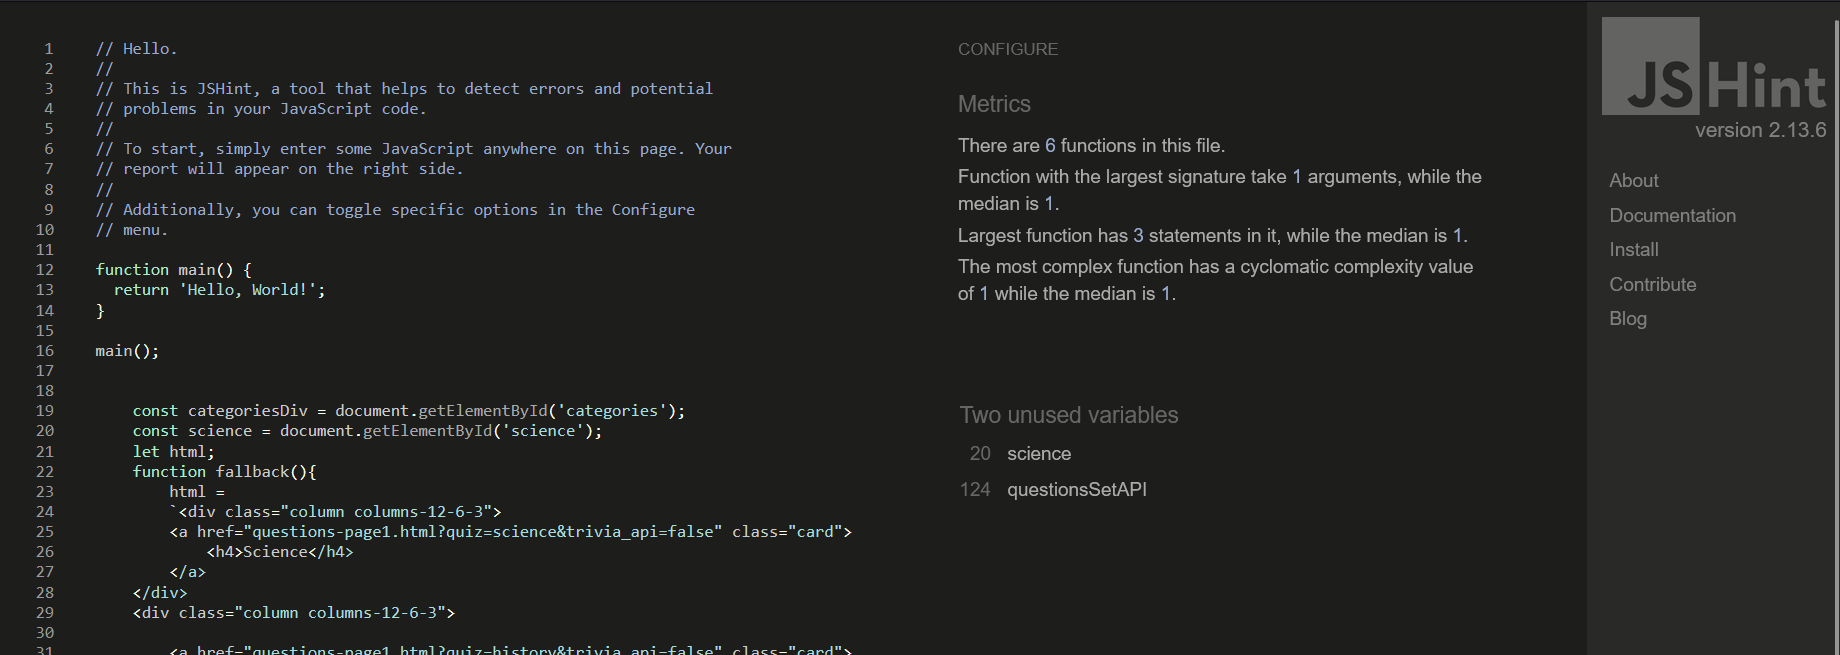
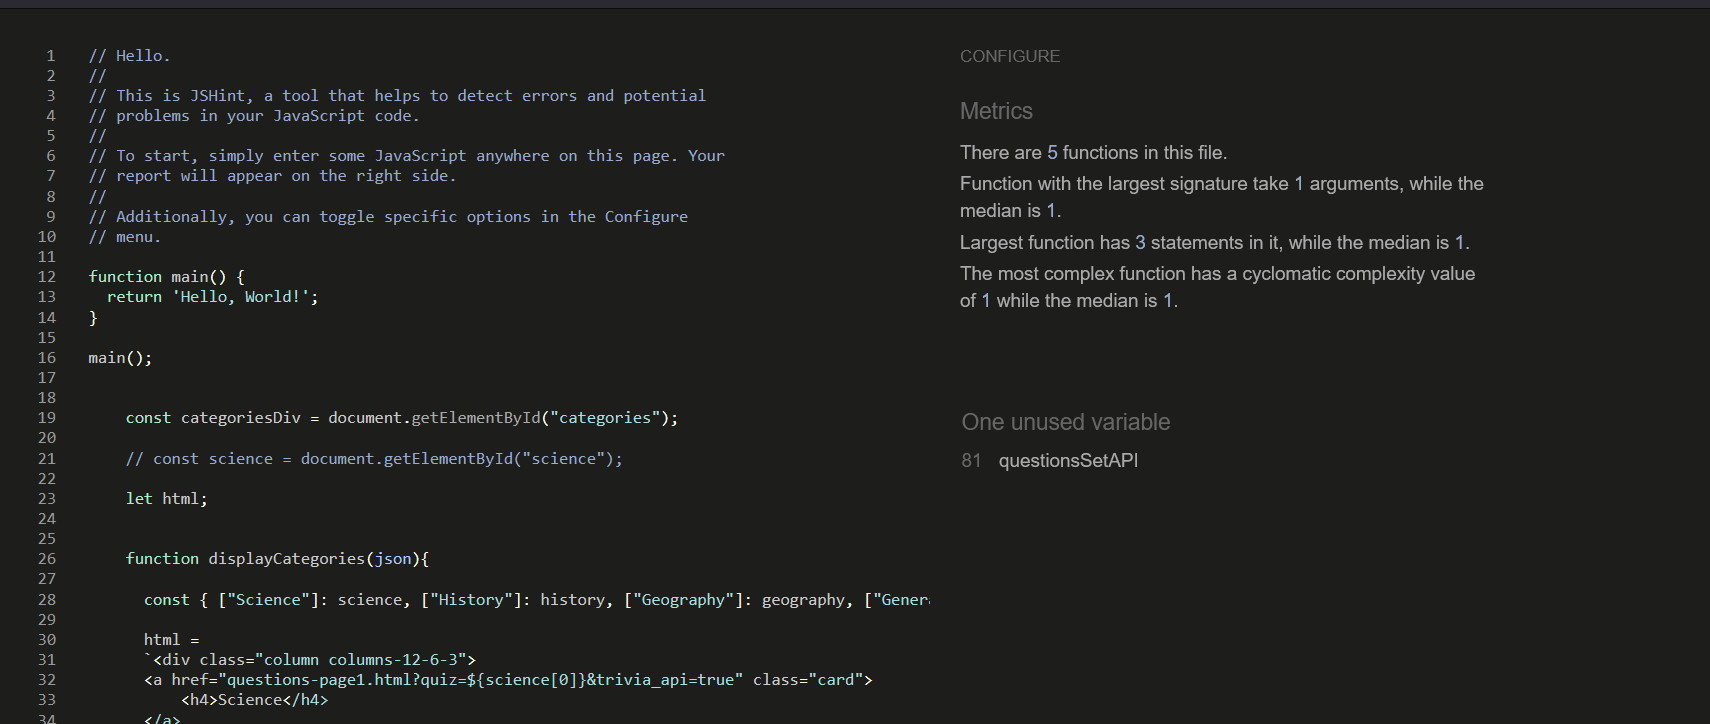
deleted unused variable, added unfixed bug

diff --git a/assets/js/api.js b/assets/js/api.js
@@ -1,13 +1,13 @@
 
     const categoriesDiv = document.getElementById("categories");
-    const science = document.getElementById("science");
+
     let html;
     
     
     function displayCategories(json){
-     
+      // The subjects, had to change the text due to spaces
       const { ["Science"]: science, ["History"]: history, ["Geography"]: geography, ["General Knowledge"]: gK, ["Film & TV"]: tV, ["Music"]: music } = json;
-
+      // The html to inject
       html = 
       `<div class="column columns-12-6-3">
       <a href="questions-page1.html?quiz=${science[0]}&trivia_api=true" class="card">

diff --git a/documentation/testing.md b/documentation/testing.md
@@ -266,10 +266,13 @@ So, to fix this I had to move the injectQuestion function inside the .then funct
 * Bug found - (just before submition) In the subject message at the top of the questions page text was all lower case and with symbols, I believe the issue is cause by the subjects html element getting it's innerHTML from the api.
 To fix it I have used " subject.innerHTML = capitalizeFirstLetter(quiz.replace(/_/g, " "))" use Capitals, remove "_" and add a space between words.
 
-#### Unfixed bugs
+### Unfixed bugs
 
 * When validating questions page HTML with W3C Warnings are about used empty headings, the reason they are empty is that they are used to inject text using Javascript.
 [screenshot](/documentation/documentation%20images/questions-validator-warnings.png)
+
+* When validating the api.js file JSHnt says that I have one unused variable, the questionsSetAPI but this variable is used to fetch the api subjects.
+[screenshot](/documentation/documentation%20images/api.js-validation.png)
 
 ---
 
